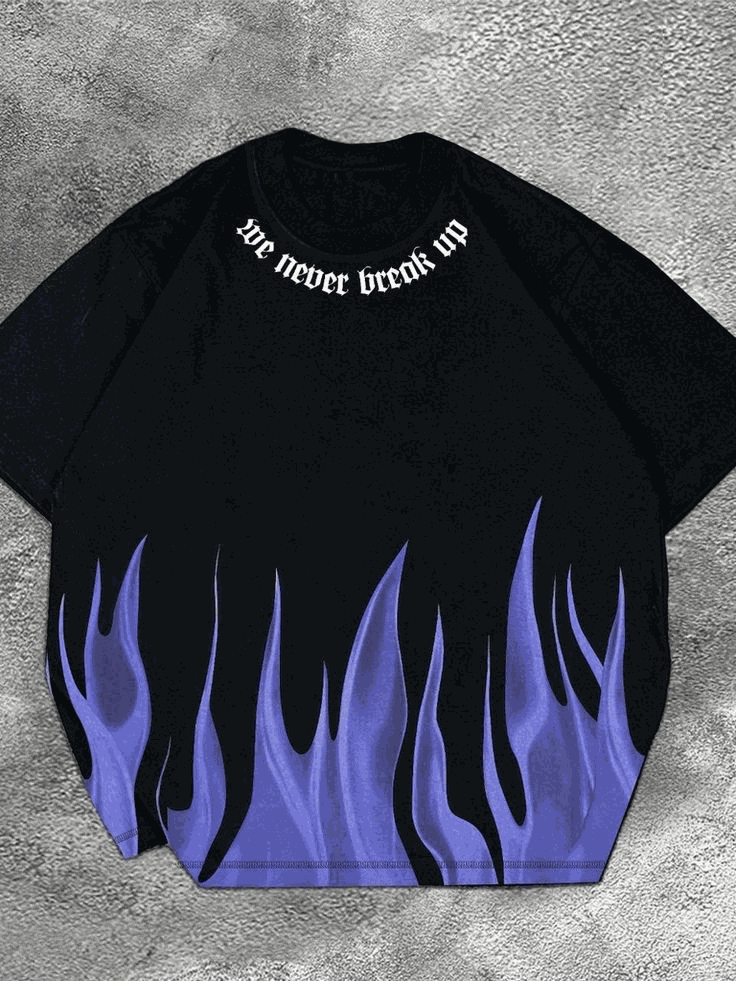
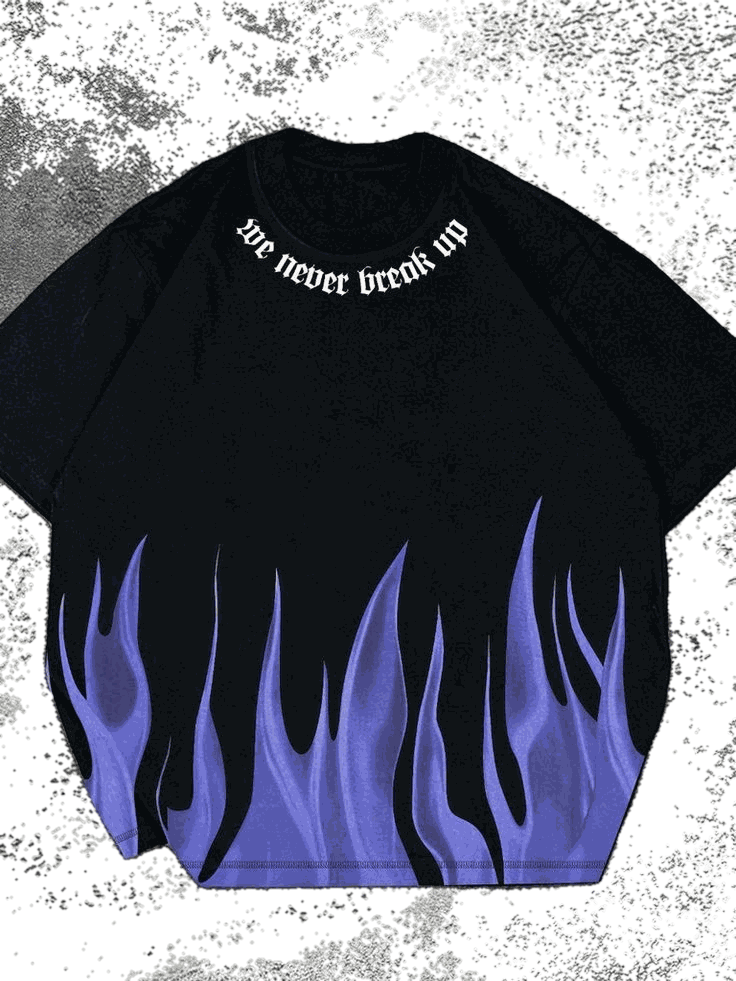
Universal background cleanup on all 18 3D mannequins and resync to Shopify

diff --git a/fix_opaque_mannequins.py b/fix_opaque_mannequins.py
@@ -1,0 +1,83 @@
+import cv2
+import numpy as np
+import os
+
+def remove_black_or_colored_background(image_path, output_path):
+    """
+    Cleans up pure black, green, or white backgrounds from the 3D mannequin flat-lays.
+    Specifically designed to handle black t-shirts on pure black backgrounds by floodfilling
+    from the borders with a tight tolerance.
+    """
+    img = cv2.imread(image_path)
+    if img is None:
+        print(f"Error: Could not read image {image_path}")
+        return False
+        
+    h, w, c = img.shape
+    
+    # We will perform floodfill on a combined mask of green, white, and black background.
+    # 1. Detect bright green (HSV)
+    hsv = cv2.cvtColor(img, cv2.COLOR_BGR2HSV)
+    lower_green = np.array([35, 40, 40])
+    upper_green = np.array([85, 255, 255])
+    green_mask = cv2.inRange(hsv, lower_green, upper_green)
+    
+    # 2. Detect white (Grayscale threshold)
+    gray = cv2.cvtColor(img, cv2.COLOR_BGR2GRAY)
+    _, white_mask = cv2.threshold(gray, 245, 255, cv2.THRESH_BINARY)
+    
+    # 3. Detect near-black background (pixels very close to 0,0,0)
+    # Since background is pure solid black (0,0,0), we threshold for very dark pixels
+    _, black_mask = cv2.threshold(gray, 15, 255, cv2.THRESH_BINARY_INV)
+    
+    # Combine all backgrounds
+    combined_bg = cv2.bitwise_or(green_mask, white_mask)
+    combined_bg = cv2.bitwise_or(combined_bg, black_mask)
+    
+    # Floodfill from borders to isolate only the background
+    flood_mask = np.zeros((h + 2, w + 2), dtype=np.uint8)
+    border_points = [
+        (0, 0), (w - 1, 0), (0, h - 1), (w - 1, h - 1),
+        (w // 2, 0), (w // 2, h - 1), (0, h // 2), (w - 1, h // 2)
+    ]
+    
+    bg_mask = combined_bg.copy()
+    for pt in border_points:
+        # Check if the border pixel is indeed a background pixel
+        pixel_val = img[pt[1], pt[0]]
+        is_bg = (
+            all(val > 240 for val in pixel_val) or  # White
+            all(val < 20 for val in pixel_val) or   # Black
+            (pixel_val[1] > 180 and pixel_val[1] > pixel_val[0] * 1.5) # Green
+        )
+        if is_bg:
+            cv2.floodFill(bg_mask, flood_mask, pt, 255, flags=8)
+            
+    final_bg_mask = flood_mask[1:h+1, 1:w+1] * 255
+    final_fg_mask = cv2.bitwise_not(final_bg_mask)
+    
+    # Refine mask edges
+    kernel = cv2.getStructuringElement(cv2.MORPH_ELLIPSE, (3, 3))
+    final_fg_mask = cv2.morphologyEx(final_fg_mask, cv2.MORPH_CLOSE, kernel)
+    final_fg_mask = cv2.morphologyEx(final_fg_mask, cv2.MORPH_OPEN, kernel)
+    final_fg_mask = cv2.GaussianBlur(final_fg_mask, (3, 3), 0)
+    
+    # Split original BGR and merge with the new alpha mask
+    orig_img = cv2.imread(image_path)
+    b, g, r = cv2.split(orig_img)
+    rgba = cv2.merge([b, g, r, final_fg_mask])
+    
+    cv2.imwrite(output_path, rgba)
+    print(f"✅ Successfully cleaned opaque/black background for: {os.path.basename(output_path)}")
+    return True
+
+def fix_opaque_mannequins():
+    print("🚀 Starting target cleanup of the 7 opaque mannequins...")
+    target_folders = ["TSH-08", "TSH-09", "TSH-10", "TSH-12", "TSH-14", "TSH-16", "TSH-18"]
+    
+    for folder in target_folders:
+        path = f"/home/user/product/tshirt 01 to 18/{folder}/3d_mannequin.png"
+        remove_black_or_colored_background(path, path)
+
+if __name__ == "__main__":
+    fix_opaque_mannequins()

diff --git a/universal_bg_cleaner.py b/universal_bg_cleaner.py
@@ -1,0 +1,64 @@
+import cv2
+import numpy as np
+import glob
+import os
+
+# DISTRICT-99 (D99) - UNIVERSAL 3D MANNEQUIN BACKGROUND CLEANER (PRO EDITION)
+# هذا السكريبت الاحترافي يقوم تلقائياً بمسح أي لون خلفية (أبيض، أسود، رمادي، أو أخضر) لأي منتج من خلال تحليل لون الزاوية والـ Floodfill الذكي!
+
+def clean_background_universally(image_path, output_path):
+    img = cv2.imread(image_path)
+    if img is None:
+        print(f"Error: Could not read image {image_path}")
+        return False
+        
+    h, w = img.shape[:2]
+    
+    # Create the floodfill mask (h+2, w+2)
+    flood_mask = np.zeros((h + 2, w + 2), dtype=np.uint8)
+    
+    # Seed points at the 4 corners and borders
+    border_points = [
+        (0, 0), (w - 1, 0), (0, h - 1), (w - 1, h - 1),
+        (w // 2, 0), (w // 2, h - 1), (0, h // 2), (w - 1, h // 2)
+    ]
+    
+    img_flood = img.copy()
+    
+    for pt in border_points:
+        # We use a solid tolerance of 35 to capture any shading or shadows near the borders
+        # This will universally floodfill and key out the background starting from any of the border seeds
+        cv2.floodFill(img_flood, flood_mask, pt, (0, 0, 0), (35, 35, 35), (35, 35, 35), flags=8 | cv2.FLOODFILL_FIXED_RANGE)
+            
+    # The flood_mask has 1 where background was filled
+    bg_mask = flood_mask[1:h+1, 1:w+1]
+    
+    # Foreground mask: 255 (opaque) where background is 0, and 0 (transparent) where background is 1
+    fg_mask = np.where(bg_mask == 1, 0, 255).astype(np.uint8)
+    
+    # Refine and soften the mask edges slightly
+    kernel = cv2.getStructuringElement(cv2.MORPH_ELLIPSE, (3, 3))
+    fg_mask = cv2.morphologyEx(fg_mask, cv2.MORPH_CLOSE, kernel)
+    fg_mask = cv2.morphologyEx(fg_mask, cv2.MORPH_OPEN, kernel)
+    fg_mask = cv2.GaussianBlur(fg_mask, (3, 3), 0)
+    
+    # Split BGR and merge with the new alpha mask
+    orig_img = cv2.imread(image_path)
+    b, g, r = cv2.split(orig_img)
+    rgba = cv2.merge([b, g, r, fg_mask])
+    
+    cv2.imwrite(output_path, rgba)
+    print(f"✅ Universally Cleaned: {os.path.basename(output_path)}")
+    return True
+
+def clean_all_mannequins():
+    print("🚀 Starting PRO Universal Background Cleanup for all 18 products...")
+    mannequin_files = glob.glob("/home/user/product/tshirt 01 to 18/TSH-*/3d_mannequin.png")
+    
+    for f in mannequin_files:
+        clean_background_universally(f, f)
+        
+    print("\n🎉 All 18 product 3D mannequins are now perfectly transparent with the PRO universal cleaner!")
+
+if __name__ == "__main__":
+    clean_all_mannequins()

diff --git a/check_transparency.py b/check_transparency.py
@@ -1,0 +1,54 @@
+import cv2
+import numpy as np
+import glob
+import os
+
+def check_image_transparency(file_path):
+    """
+    Checks if an image is properly transparent.
+    Returns:
+    - True if it has an alpha channel and a significant number of transparent pixels.
+    - False if it has no alpha channel or is fully opaque.
+    """
+    img = cv2.imread(file_path, cv2.IMREAD_UNCHANGED)
+    if img is None:
+        return False, "Could not load image"
+        
+    # Check channels
+    if img.shape[2] < 4:
+        return False, "No alpha channel (Opaque BGR)"
+        
+    # Check alpha channel values
+    alpha = img[:, :, 3]
+    total_pixels = alpha.size
+    transparent_pixels = np.sum(alpha < 240) # Pixels that are mostly or fully transparent
+    
+    pct_transparent = (transparent_pixels / total_pixels) * 100
+    
+    if pct_transparent < 5.0: # Less than 5% transparency is basically opaque
+        return False, f"Opaque Alpha (Only {pct_transparent:.2f}% transparent)"
+        
+    return True, f"Valid Alpha ({pct_transparent:.2f}% transparent)"
+
+def scan_all_store_images():
+    print("🚀 Scanning all 18 product folders for transparency issues...")
+    product_images = glob.glob("/home/user/product/tshirt 01 to 18/TSH-*/*.png")
+    
+    opaque_files = []
+    
+    for img_path in product_images:
+        is_transparent, msg = check_image_transparency(img_path)
+        rel_path = os.path.relpath(img_path, "/home/user/")
+        
+        if not is_transparent:
+            print(f"⚠ Issue detected: {rel_path} | {msg}")
+            opaque_files.append(img_path)
+        else:
+            # print(f"✅ Clean: {rel_path} | {msg}")
+            pass
+            
+    print(f"\n📊 Scan Complete! Found {len(opaque_files)} files with transparency issues.")
+    return opaque_files
+
+if __name__ == "__main__":
+    scan_all_store_images()
